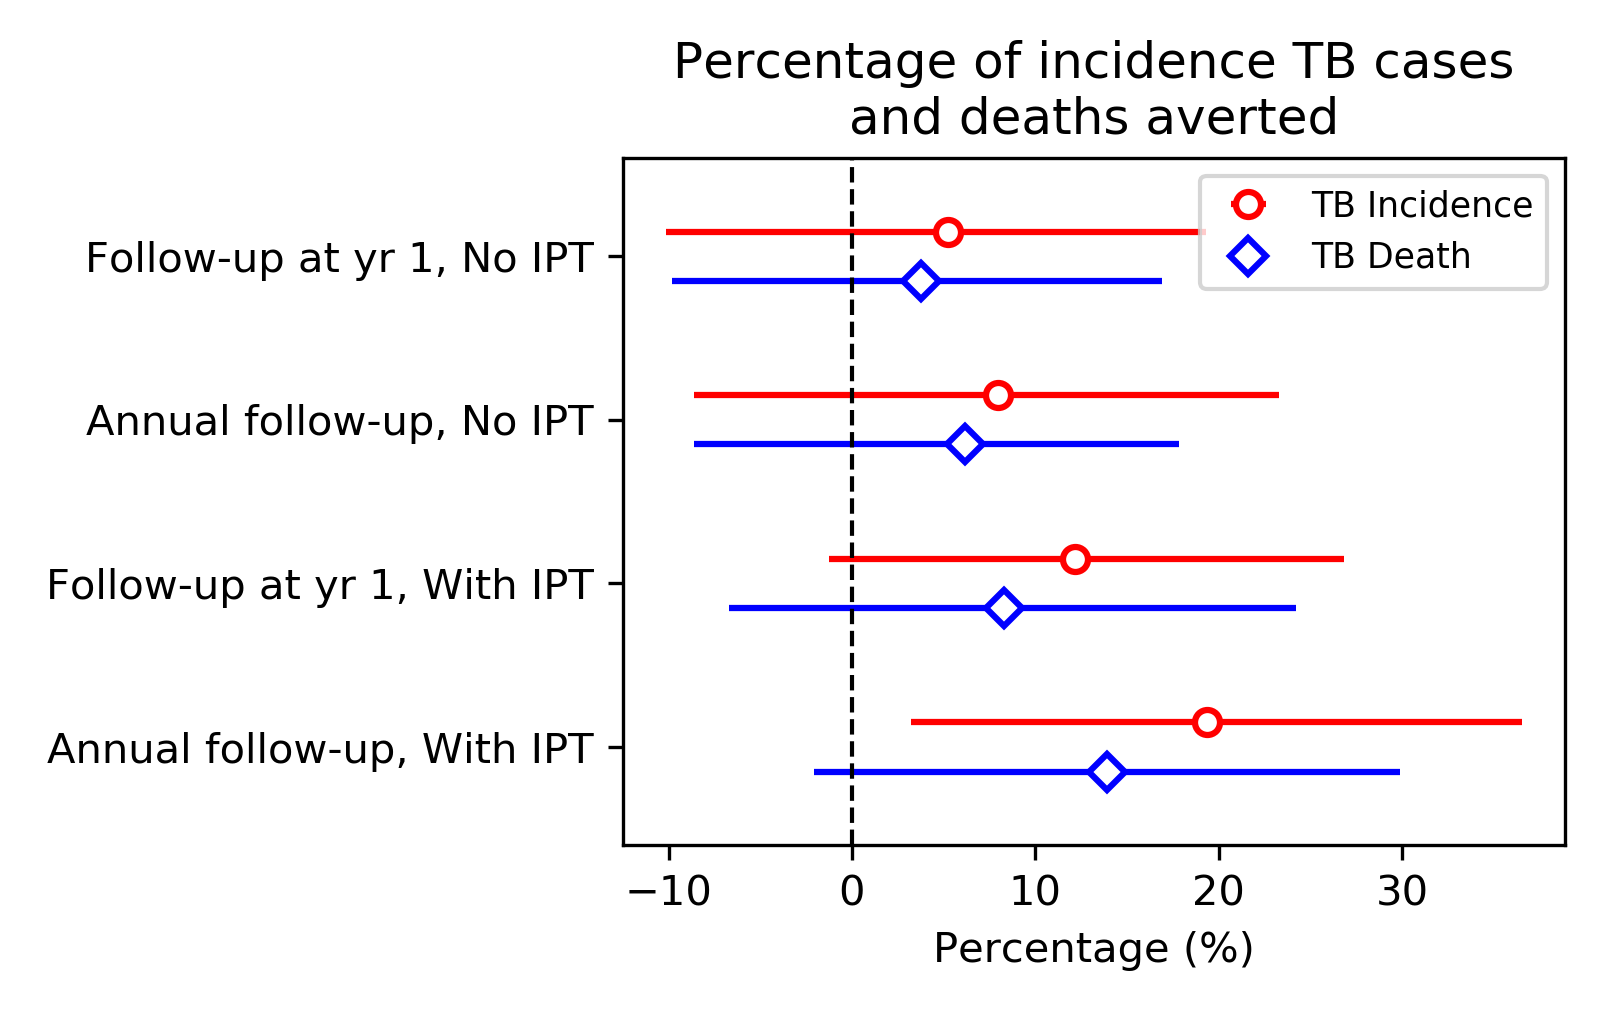
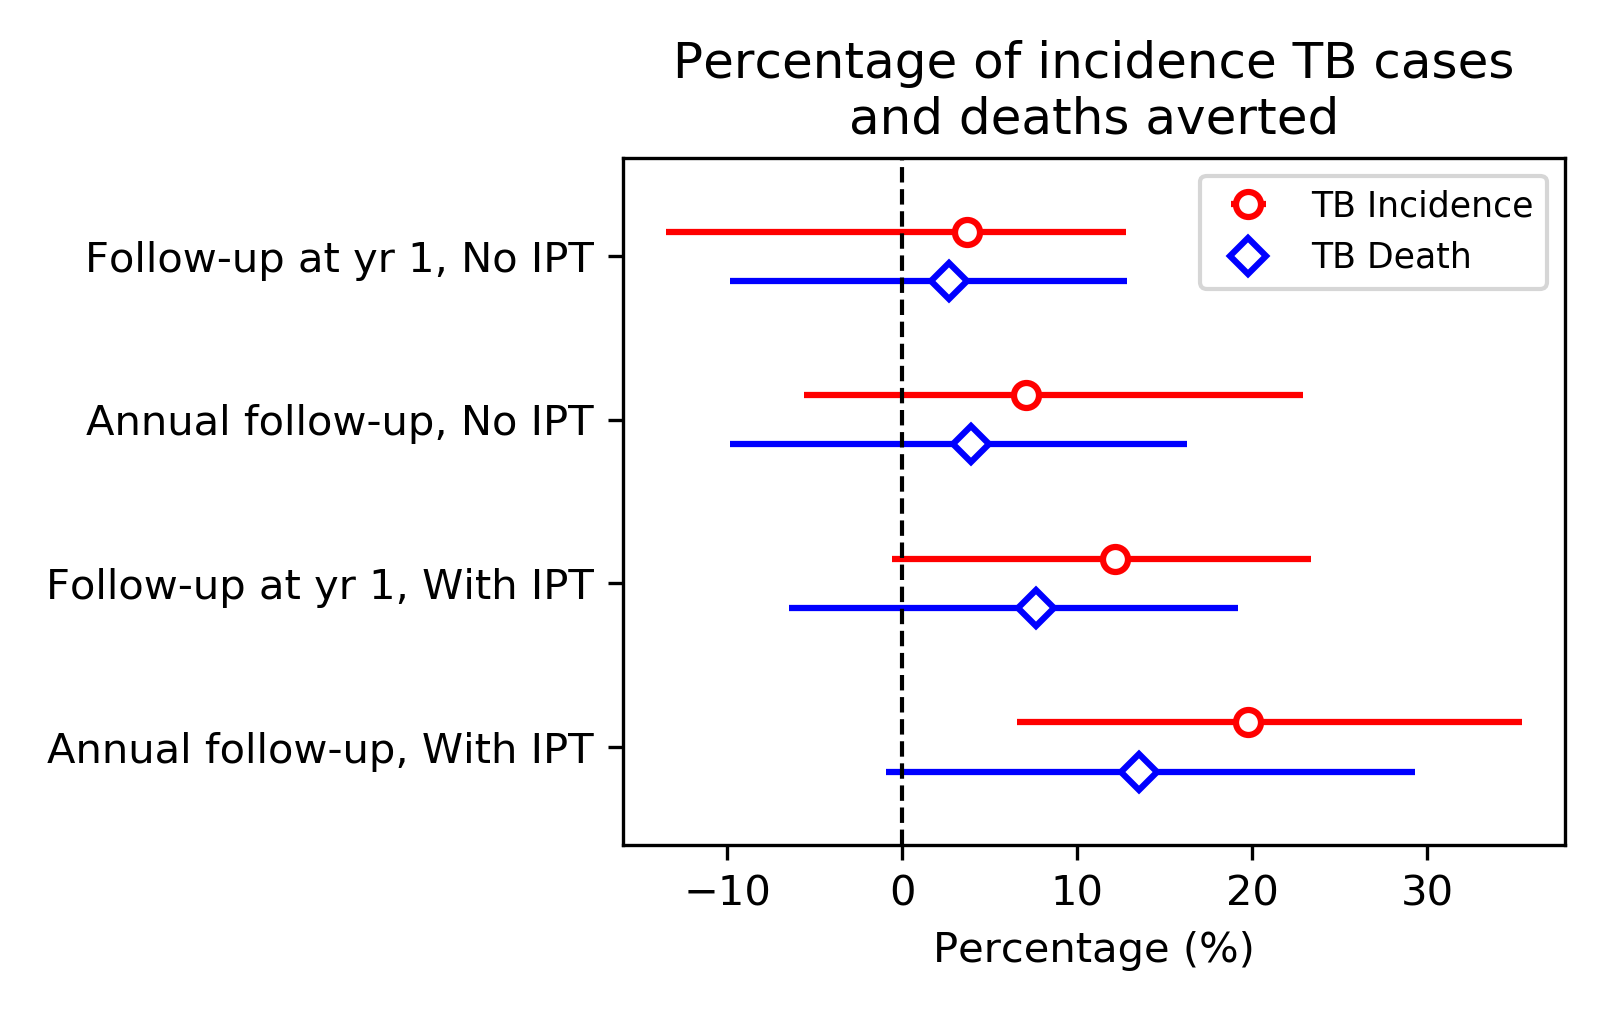
TB new SA

diff --git a/tb/TBManuscript.py b/tb/TBManuscript.py
@@ -9,6 +9,11 @@ scenario_names = ['Baseline',
                   'Follow-up at yr 1, With IPT',
                   'Annual follow-up, With IPT']
 
+scenario_keys = ['75% PTFU | No >1 FU | Drop % | No IPT',
+                 '75% PTFU | With >1 FU | Drop 15% | No IPT',
+                 '75% PTFU | No >1 FU | Drop % | With IPT',
+                 '75% PTFU | With >1 FU | Drop 15% | With IPT']
+
 csvfiles_trajs = ['csvfiles/TBTrajs0Base.csv',
                   'csvfiles/TBTrajs1Yr1NoIPT.csv',
                   'csvfiles/TBTrajs2AnnualNoIPT.csv',
@@ -89,30 +94,21 @@ print('% incident TB cases due to reactivation occurring among those who had com
 print('')
 print('% incident TB averted:',
       scenario_df.get_relative_diff_mean_interval(
-          scenario_names=['75% PTFU | No >1 FU | No IPT',
-                          '75% PTFU | With >1 FU | No IPT',
-                          '75% PTFU | No >1 FU | With IPT',
-                          '75% PTFU | With >1 FU | With IPT'],
+          scenario_names=scenario_keys,
           scenario_name_base='Base',
           outcome_name='Total: Active TB Incidence',
           deci=1, form='%'))
 
 print('% TB deaths averted:',
       scenario_df.get_relative_diff_mean_interval(
-          scenario_names=['75% PTFU | No >1 FU | No IPT',
-                          '75% PTFU | With >1 FU | No IPT',
-                          '75% PTFU | No >1 FU | With IPT',
-                          '75% PTFU | With >1 FU | With IPT'],
+          scenario_names=scenario_keys,
           scenario_name_base='Base',
           outcome_name='Total: TB Deaths',
           deci=1, form='%'))
 
 scenario_df.plot_relative_diff_by_scenario(
     scenario_name_base='Base',
-    scenario_names=['75% PTFU | No >1 FU | No IPT',
-                    '75% PTFU | With >1 FU | No IPT',
-                    '75% PTFU | No >1 FU | With IPT',
-                    '75% PTFU | With >1 FU | With IPT'],
+    scenario_names=scenario_keys,
     outcome_names=['Total: Active TB Incidence', 'Total: TB Deaths'],
     title='Percentage of incidence TB cases\nand deaths averted',
     x_label='Percentage (%)',

diff --git a/tb/TB_CEA.py b/tb/TB_CEA.py
@@ -5,8 +5,8 @@ import SimPy.EconEvalClasses as Econ
 markers = ['o', 's', '^', 'D']
 colors = ['r', 'b', 'g', '#FF9912']
 
-PROB_UPTAKE = 0.75
-PROB_DROPOUT = 0.25
+PROB_UPTAKE = 0.75      # 0.5, 0.75, 1
+PROB_DROPOUT = 0.15     # 0.1, 0.15, 0.25,
 
 # conditions of variables to define scenarios to display on the cost-effectiveness plane
 # here we want scenarios with
